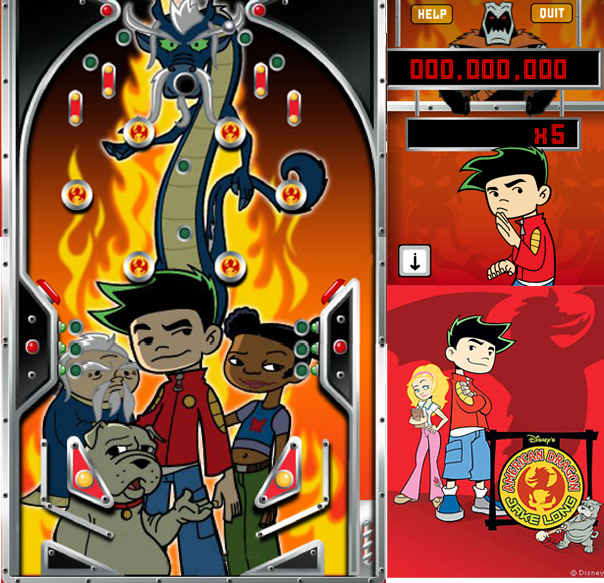
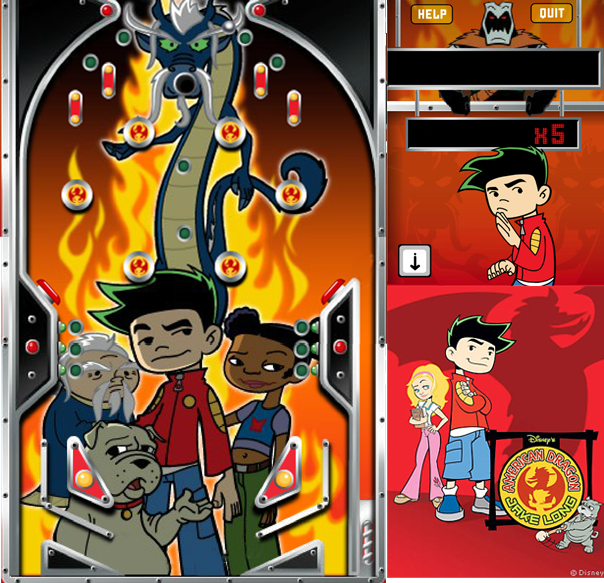
Score system prepared

Changed region(s): [[0.6556, 0.0926, 0.9536, 0.1544]]

diff --git a/ModulePlayer.cpp b/ModulePlayer.cpp
@@ -1,4 +1,5 @@
 #include "Globals.h"
+#include "p2DynArray.h"
 #include "Application.h"
 #include "ModulePlayer.h"
 #include "ModulePhysics.h"
@@ -22,6 +23,9 @@ ModulePlayer::~ModulePlayer()
 bool ModulePlayer::Start()
 {
 	LOG("Loading player");
+
+	score = 0;
+	numbers = App->textures->Load("pinball/numbers.png");
 
 	CreateMap();
 
@@ -69,10 +73,9 @@ update_status ModulePlayer::Update()
 	{
 		App->renderer->Blit(ball_lives, 510 - (20 * i), 127);
 	}
-	
 
 	Draw();
-
+	DrawScore();
 	
 	return UPDATE_CONTINUE;
 }
@@ -92,6 +95,7 @@ void ModulePlayer::Draw()
 
 	plunger.body->GetPosition(x, y);
 	App->renderer->Blit(plunger.texture, x, y, NULL, 1.0F, plunger.body->GetRotation(), 0, 0);
+
 }
 
 void ModulePlayer::CreateMap()
@@ -150,5 +154,35 @@ void ModulePlayer::RespawnBall()
 		lives--;
 }
 
+void ModulePlayer::DrawScore()
+{
+	SDL_Rect rect;
+	rect.w = 15;
+	rect.h = 20;
+	rect.y = 0;
 
+	//Put the score in an array to identify each number
+	p2DynArray<int> arr;
+	int num = score;
+	while (num > 0)
+	{
+		int result = num % 10;
+		arr.PushBack(result);
+		num = num / 10;
+	}
+
+	//Draw a number of 10 digits
+	for (int i = 0; i < 9; i++)
+	{
+		//Pick the number or fill it with 0
+		if (arr.Count() > i)
+			rect.x = arr[i] * 15;
+		else
+			rect.x = 0;
+
+		App->renderer->Blit(numbers, 545-i* 15, 59, &rect, 1.0f, 0, 0, 0);
+	}
+	
+	
+}
 

diff --git a/ModuleSceneIntro.cpp b/ModuleSceneIntro.cpp
@@ -5,6 +5,7 @@
 #include "ModuleInput.h"
 #include "ModuleTextures.h"
 #include "ModuleAudio.h"
+#include "ModulePlayer.h"
 #include "ModulePhysics.h"
 
 #define LIGHT_LIFE 10
@@ -262,6 +263,7 @@ void ModuleSceneIntro::OnCollision(PhysBody* bodyA, PhysBody* bodyB)
 		{
 			item->data->life = LIGHT_LIFE;
 			App->audio->PlayFx(item->data->fx);
+			//App->player->score += 10; TODO: ADD score
 			return;
 		}
 		item = item->next;

diff --git a/ModulePlayer.h b/ModulePlayer.h
@@ -32,7 +32,7 @@ public:
 private:
 	
 	void CreateMap();
-
+	void DrawScore();
 	void RespawnBall();
 
 public:
@@ -46,4 +46,8 @@ public:
 	Entity flipper_right;
 	Entity flipper_left; 
 	Entity plunger;
+
+	//Score
+	SDL_Texture* numbers;
+	int score;
 };
